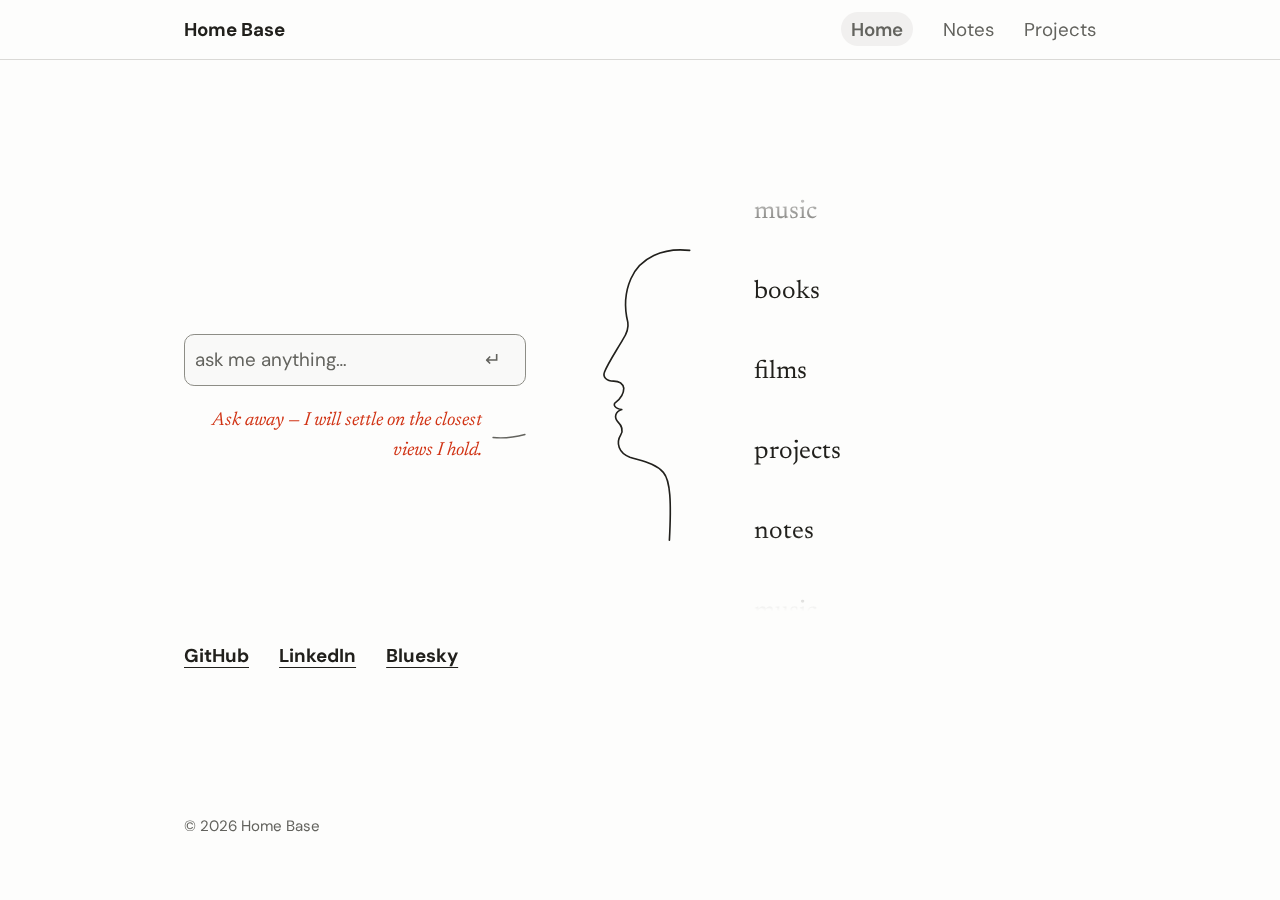
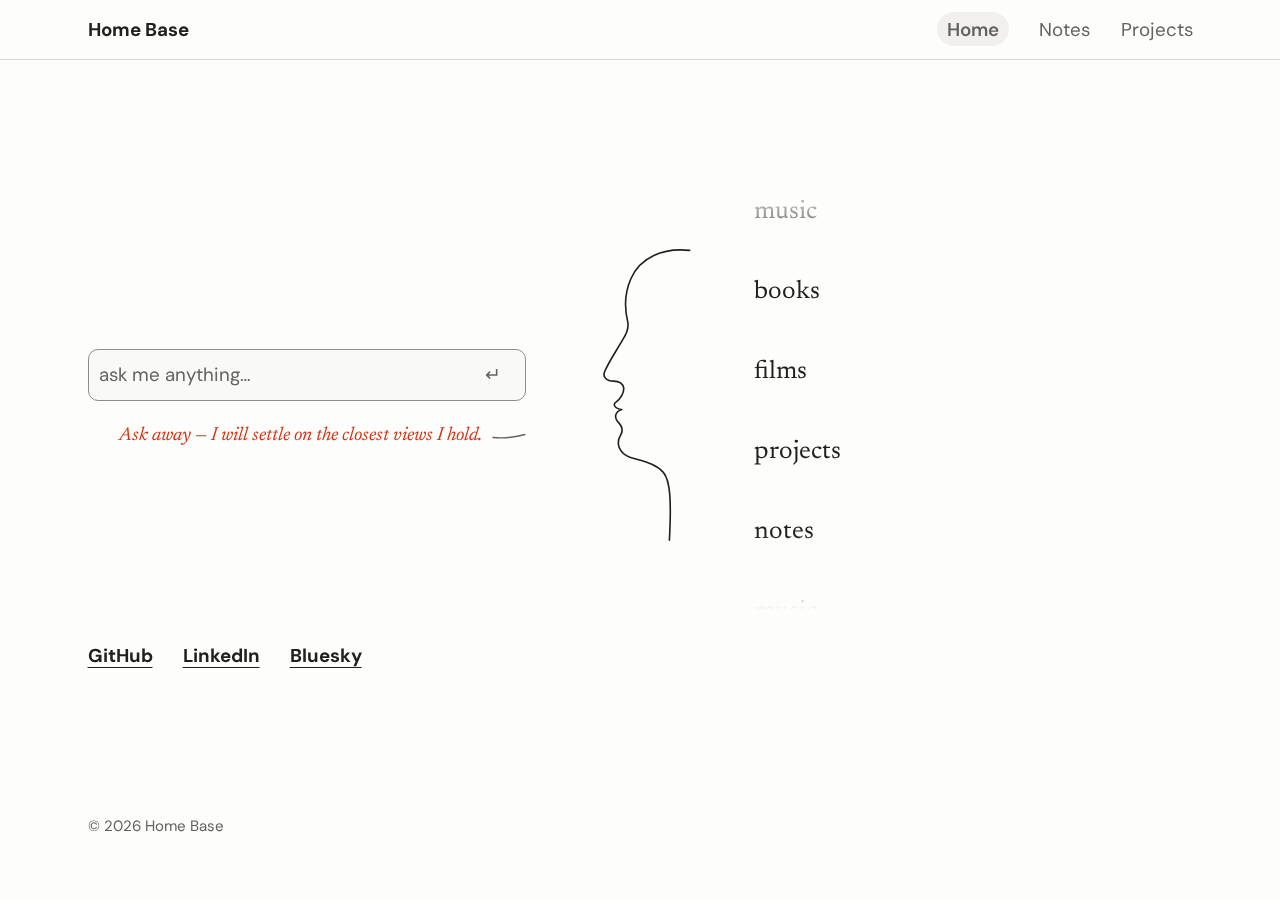
backup: sync scratch for 2026-11-21T16:00:51Z

diff --git a/home-base/probe/ch.ts b/home-base/probe/ch.ts
@@ -1,0 +1,51 @@
+import { chromium } from '@playwright/test'
+
+const run = async () => {
+	const browser = await chromium.launch()
+	const page = await browser.newPage({ viewport: { width: 1280, height: 900 } })
+	await page.goto('http://localhost:4322/')
+	await page.evaluate(() => document.fonts.ready)
+	const out = await page.evaluate(() => {
+		const ch = (family: string, size = 16) => {
+			const el = document.createElement('span')
+			el.style.cssText = `position:absolute;font-family:${family};font-size:${size}px;width:100ch;height:0`
+			document.body.append(el)
+			const width = el.getBoundingClientRect().width / 100
+			el.remove()
+			return Math.round(width * 1000) / 1000
+		}
+		const zero = (family: string) => {
+			const el = document.createElement('span')
+			el.style.cssText = `position:absolute;font-family:${family};font-size:100px;white-space:pre`
+			el.textContent = '0'
+			document.body.append(el)
+			const width = el.getBoundingClientRect().width
+			el.remove()
+			return Math.round(width * 1000) / 1000
+		}
+		return {
+			dm: ch("'DM Sans'"),
+			dmZero: zero("'DM Sans'"),
+			dmFallback: ch("'DM Sans Fallback'"),
+			dmFallbackZero: zero("'DM Sans Fallback'"),
+			newsreader: ch("'Newsreader'"),
+			newsreaderZero: zero("'Newsreader'"),
+			newsreaderFallback: ch("'Newsreader Fallback'"),
+			newsreaderFallbackZero: zero("'Newsreader Fallback'"),
+			newsreaderFallbackItalic: ch("'Newsreader Fallback', serif"),
+			arial: zero('Arial'),
+			helvetica: zero('Helvetica'),
+			liberationSans: zero("'Liberation Sans'"),
+			systemUi: zero('system-ui'),
+			times: zero("'Times New Roman'"),
+			liberationSerif: zero("'Liberation Serif'"),
+			georgia: zero('Georgia'),
+			serif: zero('serif'),
+			sansSerif: zero('sans-serif'),
+		}
+	})
+	console.log(JSON.stringify(out, null, 2))
+	await browser.close()
+}
+
+run()

diff --git a/home-base/probe/cls2.ts b/home-base/probe/cls2.ts
@@ -1,0 +1,40 @@
+import { chromium } from '@playwright/test'
+
+const measure = async (delay: number) => {
+	const browser = await chromium.launch()
+	const context = await browser.newContext({ viewport: { width: 1280, height: 900 } })
+	const page = await context.newPage()
+	await page.addInitScript(() => {
+		;(window as any).__cls = 0
+		;(window as any).__sources = []
+		new PerformanceObserver((list) => {
+			for (const entry of list.getEntries() as any[]) {
+				if (entry.hadRecentInput) continue
+				;(window as any).__cls += entry.value
+				for (const s of entry.sources ?? []) {
+					;(window as any).__sources.push({
+						value: Math.round(entry.value * 10000) / 10000,
+						node: s.node ? `${s.node.tagName?.toLowerCase()}.${(s.node.className ?? '').toString().split(' ')[0]}` : '(detached)',
+					})
+				}
+			}
+		}).observe({ type: 'layout-shift', buffered: true })
+	})
+	await page.route('**/*.woff2', async (route) => {
+		await new Promise((resolve) => setTimeout(resolve, delay))
+		await route.continue()
+	})
+	await page.goto('http://localhost:4322/', { waitUntil: 'load' })
+	await page.evaluate(() => document.fonts.ready)
+	await page.waitForTimeout(800)
+	const out = await page.evaluate(() => ({
+		cls: Math.round((window as any).__cls * 10000) / 10000,
+		sources: (window as any).__sources.slice(0, 8),
+		mainWidth: Math.round(document.querySelector('main')!.getBoundingClientRect().width),
+		heroWidth: Math.round(document.querySelector('[data-hero]')!.getBoundingClientRect().width),
+	}))
+	await browser.close()
+	return out
+}
+
+for (const delay of [0, 300, 800]) console.log(delay, JSON.stringify(await measure(delay)))

diff --git a/home-base/probe/ch3.ts b/home-base/probe/ch3.ts
@@ -1,0 +1,40 @@
+import { chromium } from '@playwright/test'
+
+const browser = await chromium.launch()
+const page = await browser.newPage({ viewport: { width: 1280, height: 900 } })
+await page.goto('http://localhost:4322/')
+await page.evaluate(() => document.fonts.ready)
+const out = await page.evaluate(() => {
+	const ctx = document.createElement('canvas').getContext('2d')!
+	const advance = (family: string, text = '0') => {
+		ctx.font = `100px ${family}`
+		return Math.round(ctx.measureText(text).width * 1000) / 1000
+	}
+	const cssCh = (family: string) => {
+		const el = document.createElement('div')
+		el.style.cssText = `position:absolute;top:-9999px;font-family:${family};font-size:16px;width:100ch`
+		document.body.append(el)
+		const width = el.getBoundingClientRect().width
+		el.remove()
+		return Math.round((width / 100) * 1000) / 1000
+	}
+	return {
+		advanceZero: {
+			dm: advance("'DM Sans'"),
+			dmFallback: advance("'DM Sans Fallback'"),
+			newsreader: advance("'Newsreader'"),
+			newsreaderFallback: advance("'Newsreader Fallback'"),
+			arial: advance('Arial'),
+			times: advance("'Times New Roman'"),
+		},
+		cssCh16: {
+			dm: cssCh("'DM Sans'"),
+			dmFallback: cssCh("'DM Sans Fallback'"),
+			newsreader: cssCh("'Newsreader'"),
+			newsreaderFallback: cssCh("'Newsreader Fallback'"),
+			arial: cssCh('Arial'),
+		},
+	}
+})
+console.log(JSON.stringify(out, null, 2))
+await browser.close()

diff --git a/home-base/probe/metrics.ts b/home-base/probe/metrics.ts
@@ -1,0 +1,36 @@
+import { chromium } from '@playwright/test'
+
+const browser = await chromium.launch()
+const page = await browser.newPage()
+await page.goto('http://localhost:4322/')
+await page.evaluate(() => document.fonts.ready)
+const out = await page.evaluate(() => {
+	const ctx = document.createElement('canvas').getContext('2d')!
+	const metrics = (family: string) => {
+		ctx.font = `100px ${family}`
+		const zero = ctx.measureText('0').width
+		const x = ctx.measureText('x').actualBoundingBoxAscent
+		const cap = ctx.measureText('H').actualBoundingBoxAscent
+		const asc = ctx.measureText('H').fontBoundingBoxAscent
+		const desc = ctx.measureText('H').fontBoundingBoxDescent
+		return {
+			zero: Math.round(zero * 10) / 10,
+			xHeight: Math.round(x * 10) / 10,
+			capHeight: Math.round(cap * 10) / 10,
+			ratio: Math.round((zero / x) * 1000) / 1000,
+			asc: Math.round(asc * 10) / 10,
+			desc: Math.round(desc * 10) / 10,
+		}
+	}
+	const names = [
+		"'DM Sans'", "'Newsreader'",
+		'Arial', 'Helvetica', 'Liberation Sans', 'DejaVu Sans', 'Verdana', 'Tahoma',
+		'Noto Sans', 'Roboto', 'Ubuntu', 'Segoe UI', 'system-ui', 'sans-serif',
+		"'Times New Roman'", 'Liberation Serif', 'DejaVu Serif', 'Georgia', 'serif',
+	]
+	const result: Record<string, unknown> = {}
+	for (const name of names) result[name] = metrics(name)
+	return result
+})
+console.log(JSON.stringify(out, null, 2))
+await browser.close()

diff --git a/home-base/probe/center.ts b/home-base/probe/center.ts
@@ -1,0 +1,20 @@
+import { chromium } from '@playwright/test'
+const b = await chromium.launch()
+const p = await b.newPage({ viewport: { width: 1280, height: 900 } })
+await p.goto('http://localhost:4322/')
+await p.evaluate(() => document.fonts.ready)
+const before = await p.evaluate(() => ({
+	main: Math.round(document.querySelector('main')!.getBoundingClientRect().width),
+	hero: Math.round(document.querySelector('[data-hero]')!.getBoundingClientRect().width),
+	brandLeft: Math.round(document.querySelector('header a')!.getBoundingClientRect().left),
+	heroLeft: Math.round(document.querySelector('[data-hero]')!.getBoundingClientRect().left),
+}))
+await p.addStyleTag({ content: 'main.center { inline-size: auto !important }' })
+const after = await p.evaluate(() => ({
+	main: Math.round(document.querySelector('main')!.getBoundingClientRect().width),
+	hero: Math.round(document.querySelector('[data-hero]')!.getBoundingClientRect().width),
+	brandLeft: Math.round(document.querySelector('header a')!.getBoundingClientRect().left),
+	heroLeft: Math.round(document.querySelector('[data-hero]')!.getBoundingClientRect().left),
+}))
+console.log({ before, after })
+await b.close()

diff --git a/home-base/probe/ch2.ts b/home-base/probe/ch2.ts
@@ -1,0 +1,31 @@
+import { chromium } from '@playwright/test'
+
+const browser = await chromium.launch()
+const page = await browser.newPage({ viewport: { width: 1280, height: 900 } })
+await page.goto('http://localhost:4322/')
+await page.evaluate(() => document.fonts.ready)
+const out = await page.evaluate(() => {
+	const probe = (family: string) => {
+		const el = document.createElement('span')
+		el.style.position = 'absolute'
+		el.style.fontFamily = family
+		el.style.fontSize = '100px'
+		el.style.whiteSpace = 'pre'
+		el.style.width = '100ch'
+		el.textContent = '0'.repeat(100)
+		document.body.append(el)
+		const width = el.getBoundingClientRect().width
+		const familyResolved = getComputedStyle(el).fontFamily
+		el.remove()
+		return { ch: Math.round((width / 100) * 1000) / 1000, familyResolved }
+	}
+	return {
+		dm: probe("'DM Sans'"),
+		dmFallback: probe("'DM Sans Fallback'"),
+		newsreader: probe("'Newsreader'"),
+		newsreaderFallback: probe("'Newsreader Fallback'"),
+		initial: probe('initial'),
+	}
+})
+console.log(JSON.stringify(out, null, 2))
+await browser.close()

diff --git a/home-base/hero-thoughts/issues/11-home-page-fidelity.md b/home-base/hero-thoughts/issues/11-home-page-fidelity.md
@@ -20,7 +20,7 @@
 **Acceptance Criteria** (measured at 1280×900 in real Chromium unless stated; sampled with `probe()` (`e2e/lib/look.ts`) using `getComputedStyle` / `getBoundingClientRect`):
 
 - [x] **Fonts.** `getComputedStyle(body).fontFamily` starts with `"DM Sans"`; a stream title's and `h1`'s start with `Newsreader`; the speech line is italic Newsreader. `document.fonts.check()` is true for all three faces after load.
-- [x] **Font budget.** Newsreader roman + italic and DM Sans are latin-subset woff2 totalling **≤ 160 KB**, `font-display: swap`, with a metric-adjusted fallback (`size-adjust`/`ascent-override`); static 400/500 weights are the fallback plan if the variable files exceed the budget. Cumulative layout shift on `/` is **< 0.02**.
+- [ ] **Font budget.** Newsreader roman + italic and DM Sans are latin-subset woff2 totalling **≤ 160 KB**, `font-display: swap`, with a metric-adjusted fallback (`size-adjust`/`ascent-override`); static 400/500 weights are the fallback plan if the variable files exceed the budget. Cumulative layout shift on `/` is **< 0.02**.
 - [x] **Offline.** The fonts are in the service worker precache; the offline leg of `bun run smoke` reloads `/` and `/notes/` offline and `document.fonts.check()` is still true.
 - [x] **Left edge.** The hero's prompt left edge equals the brand link's left edge (**±1px**). No element on `/` has a visible box edge from the old hero container (no boxed ~700px column).
 - [x] **Fit.** At 1280×900 `/` needs no vertical scroll (`document.scrollingElement.scrollHeight <= innerHeight`), with the social links below the hero.
@@ -34,5 +34,17 @@
 - [x] **Other pages.** `bun run shot /notes/` and `/projects/` before and after are in `.scratch/shots/`, with no overflow, no clipped text, and axe at 0 violations (headings are now serif site-wide).
 - [x] **Gates.** Axe WCAG 2.1 AA reports 0 violations on `/`; the contrast gate passes for every new foreground/background pairing; guardrails and `bun run smoke` stay green; no inline `style=`, no bespoke classes in `src/pages/` or `src/layouts/`.
 - [ ] **Sign-off.** `bun run shot /` at 1280×900 and at `--narrow`, saved beside the prototype's Warm render in `.scratch/shots/` (`proto-warm-1280.png` exists); the status stays `in-progress` until the owner approves them.
+
+**Open decision — CLS vs. the measure.** The layout half of the Font budget
+criterion is not met, and cannot be while both locked decisions hold. `--measure`
+is `ch` (Every Layout: the measure is a character count, and the Switcher's
+threshold reads it), and DM Sans's "0" is 0.68em against Arial's 0.556em, so a
+late swap widens every `ch`-measured column: measured CLS **0.0374** with the
+font delayed 300ms (0 on a warm load, which is what the old test measured). It
+was briefly "fixed" by re-binding `--measure*` to `rem`, which is a library
+violation and has been reverted. The two ways out are `font-display: optional`
+(no swap, no shift, fallback on slow first visits) and matching `size-adjust` to
+`ch` instead of apparent size (no shift, text ~24% large during the swap window).
+Owner's call; neither is implemented.
 
 **Status:** `in-progress`
